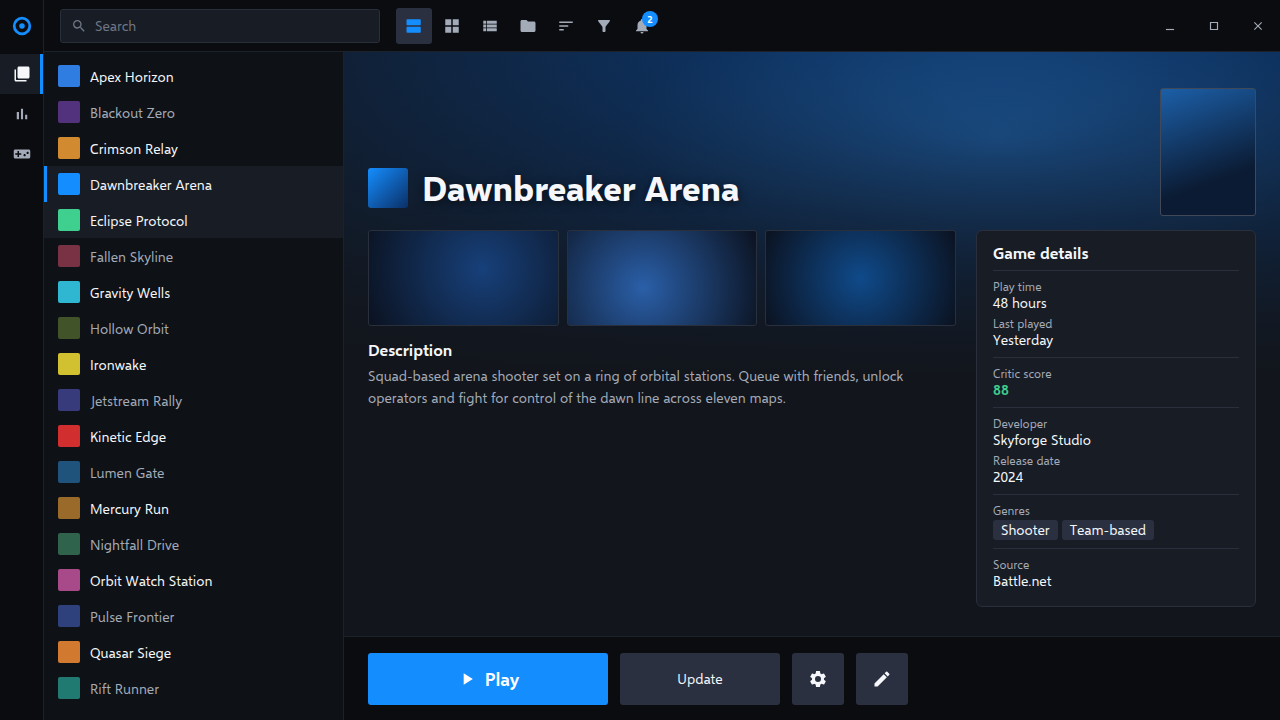
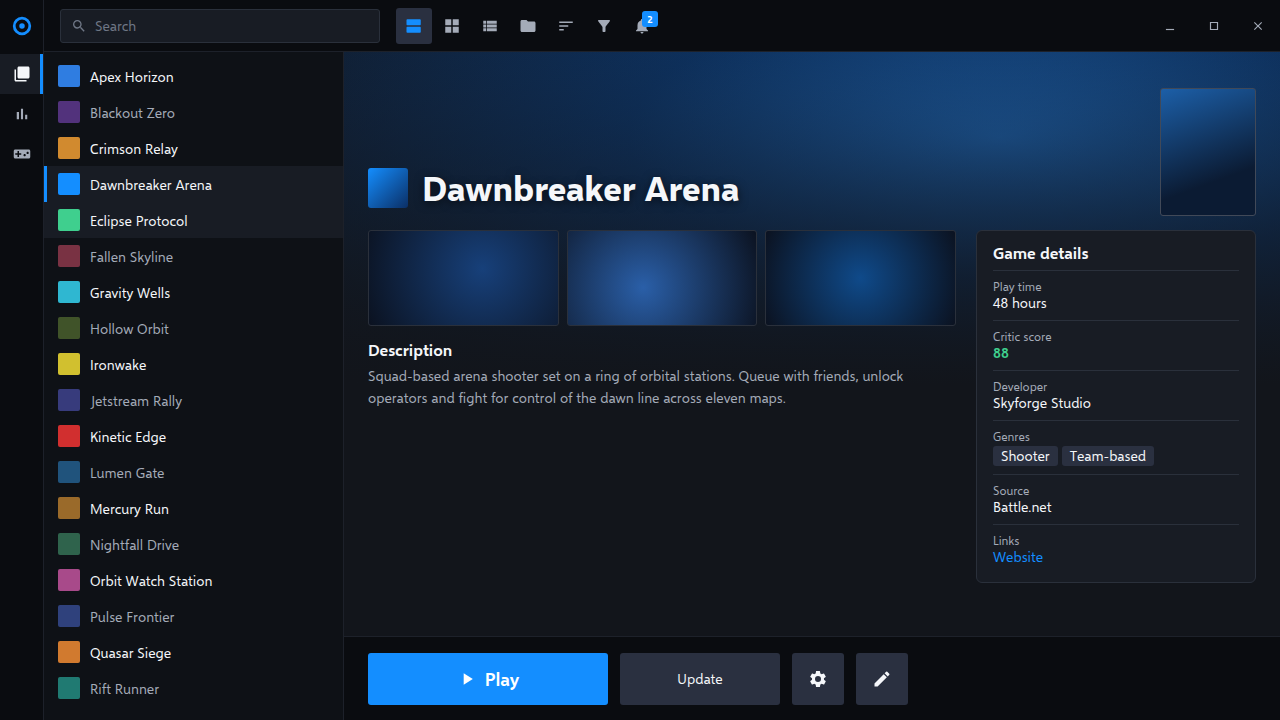
Launchpad: replace CornerRadiusFull on the count badge, refresh previews, unofficial wording in listing
Claude-Session: https://claude.ai/code/session_0189Q9dohYNsLrEuYX1w4Rt1

Changed region(s): [[0.75, 0.4278, 0.9062, 0.825]]

diff --git a/src/themes/Launchpad/art/preview-details.html b/src/themes/Launchpad/art/preview-details.html
@@ -29,7 +29,7 @@
   .tb svg { width: 18px; height: 18px; }
   .tb.on { background: var(--lp-card-active); color: var(--lp-blue); }
   .tb.tg { margin-left: 2px; }
-  .badge { position: absolute; top: 3px; right: 2px; min-width: 16px; height: 16px; border-radius: 8px; background: var(--lp-blue); color: var(--lp-on-blue); font-size: 10px; font-weight: 600; display: flex; align-items: center; justify-content: center; padding: 0 4px; }
+  .badge { position: absolute; top: 3px; right: 2px; min-width: 16px; height: 16px; border-radius: var(--lp-radius); background: var(--lp-blue); color: var(--lp-on-blue); font-size: 10px; font-weight: 600; display: flex; align-items: center; justify-content: center; padding: 0 4px; }
   .wins { position: absolute; right: 0; top: 0; height: 52px; display: flex; align-items: center; color: var(--lp-text-muted); }
   .wins b { width: 44px; height: 36px; display: flex; align-items: center; justify-content: center; }
   .wins svg { width: 14px; height: 14px; }
@@ -70,6 +70,7 @@
   .f span { display: block; font-size: 14px; line-height: 18px; }
   .chips { display: flex; flex-wrap: wrap; gap: 4px; margin-top: 2px; }
   .chip { background: var(--lp-button); border-radius: var(--lp-radius); padding: 1px 8px; font-size: 12px; }
+  .lnk { color: var(--lp-blue); }
   .score { color: var(--lp-green); font-weight: 600; }
 
   .actionbar { flex: none; height: 84px; padding: 16px 24px; background: var(--lp-frame); border-top: 1px solid var(--lp-divider); display: flex; align-items: center; z-index: 2; }
@@ -142,20 +143,21 @@
             <div class="h">Game details</div>
             <div class="grp">
               <div class="f"><small>Play time</small><span>48 hours</span></div>
-              <div class="f"><small>Last played</small><span>Yesterday</span></div>
             </div>
             <div class="grp">
               <div class="f"><small>Critic score</small><span class="score">88</span></div>
             </div>
             <div class="grp">
               <div class="f"><small>Developer</small><span>Skyforge Studio</span></div>
-              <div class="f"><small>Release date</small><span>2024</span></div>
             </div>
             <div class="grp">
               <div class="f"><small>Genres</small><div class="chips"><span class="chip">Shooter</span><span class="chip">Team-based</span></div></div>
             </div>
             <div class="grp">
               <div class="f"><small>Source</small><span>Battle.net</span></div>
+            </div>
+            <div class="grp">
+              <div class="f"><small>Links</small><span class="lnk">Website</span></div>
             </div>
           </div>
         </div>

diff --git a/src/themes/Launchpad/src/Views/TopPanel.xaml b/src/themes/Launchpad/src/Views/TopPanel.xaml
@@ -134,7 +134,7 @@
                             <ContentPresenter Width="{DynamicResource IconSize}" Height="{DynamicResource IconSize}"
                                               Content="{DynamicResource IconNotifications}"
                                               ContentTemplate="{DynamicResource IconTemplate}" />
-                            <Border CornerRadius="{DynamicResource CornerRadiusFull}" MinWidth="16" Height="16"
+                            <Border CornerRadius="{DynamicResource ControlCornerRadius}" MinWidth="16" Height="16"
                                     Margin="0,3,3,0" Background="{DynamicResource GlyphBrush}"
                                     HorizontalAlignment="Right" VerticalAlignment="Top">
                                 <TextBlock Text="{Api Notifications.Count}" FontSize="{DynamicResource FontSizeSmall}"

diff --git a/src/themes/Launchpad/AGENTS.md b/src/themes/Launchpad/AGENTS.md
@@ -50,6 +50,7 @@ Font: Segoe UI at 12 / 14 / 16 / 20 / 34. The client's own typeface is not bundl
 - **No news tiles.** Playnite has no news feed; the cards under the art are the game's description and details.
 - **Font** is Segoe UI, not the client's typeface.
 - **Colors are approximations** (see Sources).
+- **Notification count badge uses `ControlCornerRadius`, not `CornerRadiusFull`.** The badge is `MinWidth=16` x `Height=16` and grows wider for counts of two digits or more, so a full radius would distort it (AGENTS.md Control Corner Radii); the preview draws the same 3px radius.
 - **The game title keeps a soft drop shadow** on the art so it stays legible over bright artwork (Playnite's own page does the same).
 
 ## Build notes
